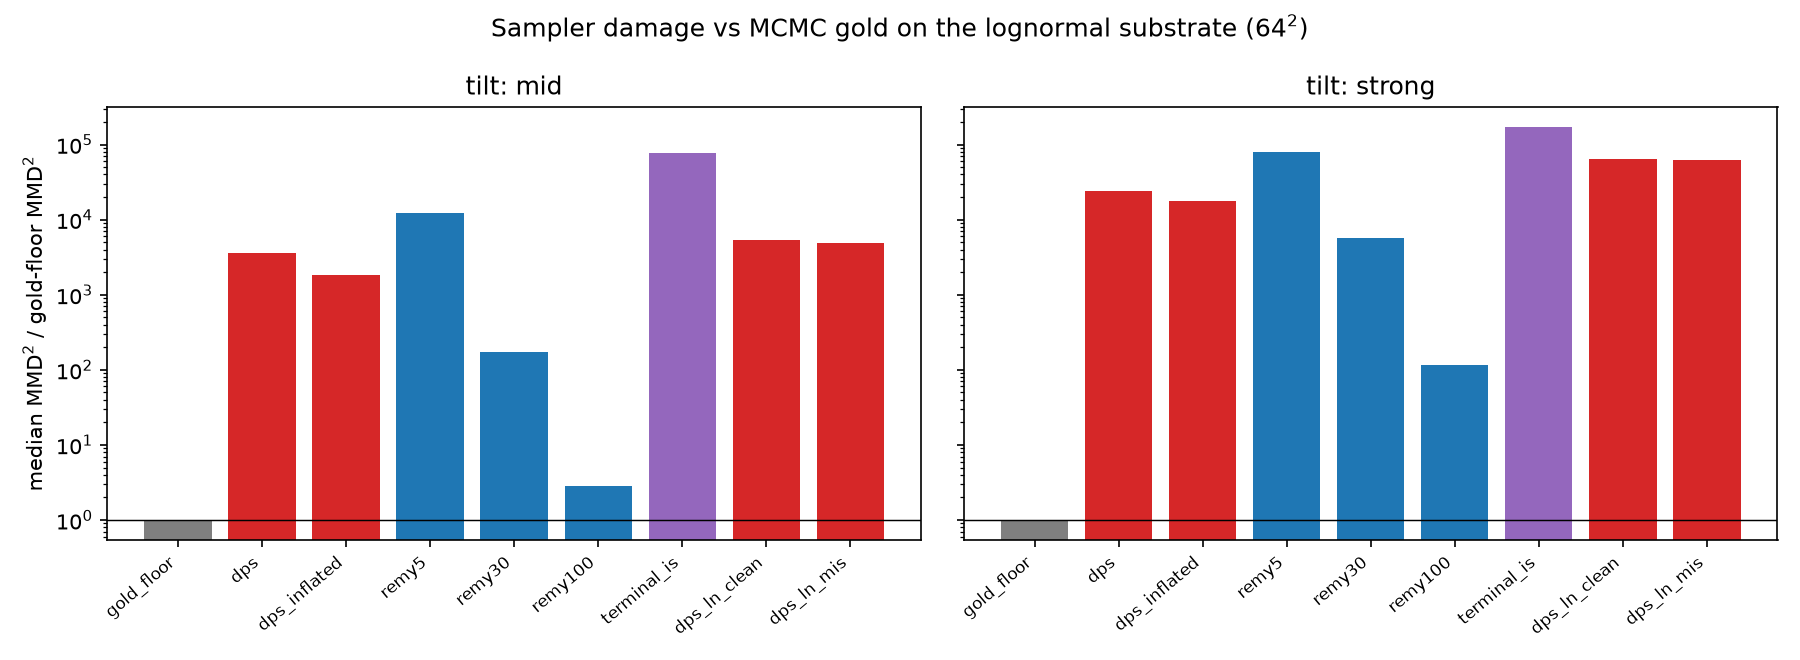
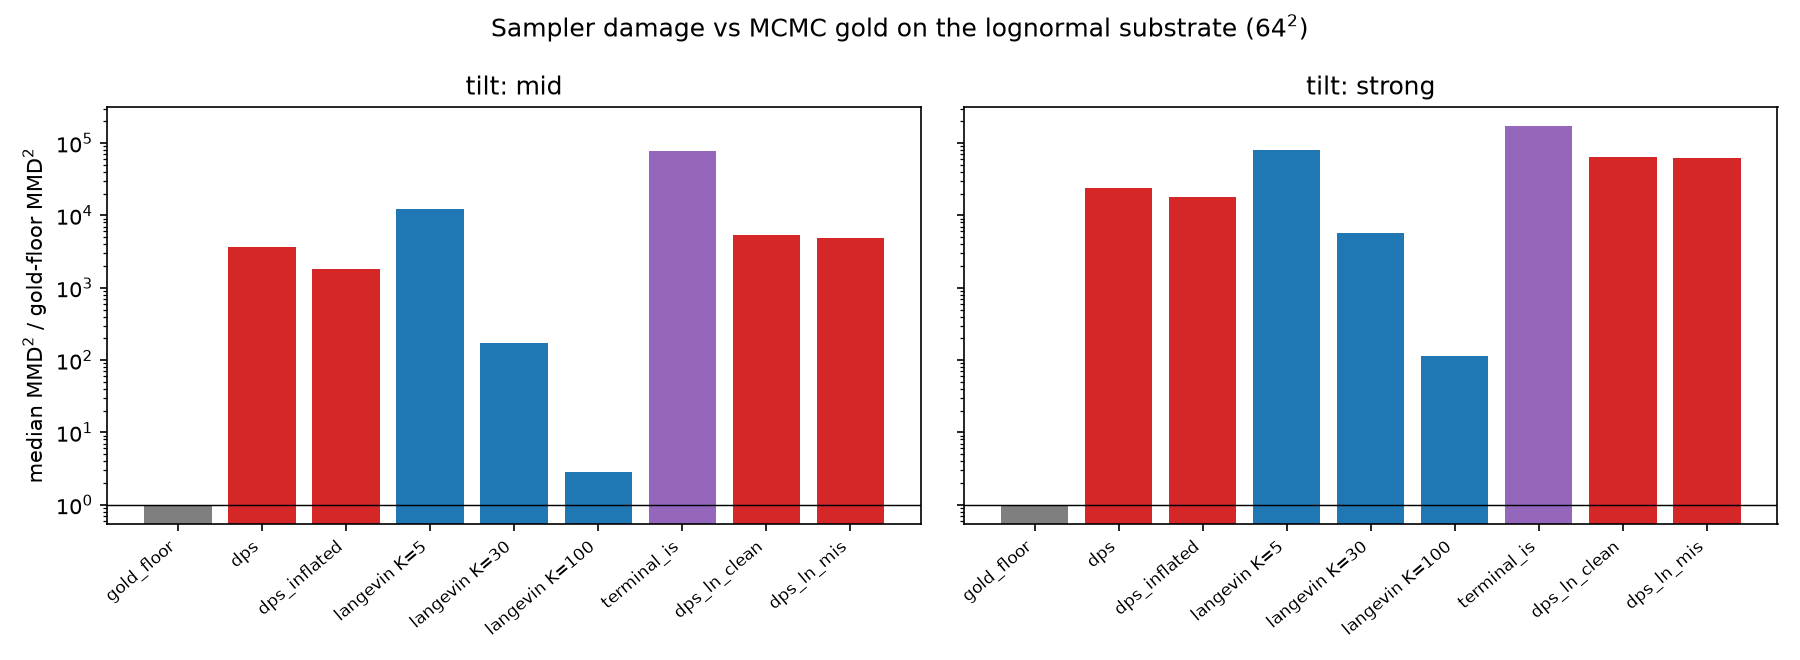
discretion + framing pass: ledger notes redacted with visible markers (originals in private records; no frozen prediction touched), blog part 6 genericized (method not person; arXiv citations kept), figure labels de-personalized

diff --git a/docs/explainer/certificate_explainer.html b/docs/explainer/certificate_explainer.html
@@ -605,12 +605,13 @@
 <div class="col">
   <p class="eyebrow">part 6 · the field&rsquo;s flagship</p>
   <h2>Where the community&rsquo;s actual mass-mapping method fits in all this</h2>
-  <p>Readers from weak lensing will be asking: what does any of this mean for the
-  method the field actually ships — the Remy et&nbsp;al. (2023) mass-mapping
-  sampler, which reconstructed dark-matter maps of real survey data with a
-  diffusion prior? It sits inside this story in three distinct ways.</p>
+  <p>Readers from weak lensing will be asking: what does any of this mean for
+  the approach the field actually ships — annealed-Langevin mass mapping
+  (arXiv:2201.05561), which has reconstructed dark-matter maps of real survey
+  data with a diffusion prior? It sits inside this story in three distinct
+  ways.</p>
   <p><b>First, it is one of the steered samplers under audit — the cautious
-  one.</b> Instead of one backward pass with nudges at full data strength, their
+  one.</b> Instead of one backward pass with nudges at full data strength, the
   scheme visits a ladder of noise levels and, at each level, deliberately
   <em>weakens</em> the data pull: it treats the measurement noise as if it were
   inflated by the current noise level (variance σ²<sub>data</sub> +
@@ -622,8 +623,8 @@
   cheap one-pass shortcut already costs roughly 7&ndash;30&times; the shortcut&rsquo;s
   compute, and near-exactness costs about 100&times;. Cautious, correct in the
   limit, expensive: now with exact numbers attached.</p>
-  <p><b>Second, their validation practice is exactly the gap the meter aimed
-  at.</b> How does that team currently argue their maps are right? The
+  <p><b>Second, the validation practice around it is exactly the gap the meter
+  aimed at.</b> How do its users currently argue the maps are right? The
   state-of-the-art way: run the sampler on <em>simulations</em> where the truth
   is known, check the recovered uncertainties offline, then trust the pipeline
   on real data. That is an offline, in-distribution argument — it cannot notice
@@ -635,7 +636,7 @@
   3&ndash;100&times; the ideal error. A per-observation runtime meter would have
   been the missing complement. That is why this instrument was worth a serious
   attempt.</p>
-  <p><b>Third, the verdict covers their scheme too.</b> The ledger idea has a
+  <p><b>Third, the verdict covers this scheme too.</b> The ledger idea has a
   natural version for level-ladder samplers (the weights accumulate across
   levels instead of steps — the classic &ldquo;annealed importance
   sampling&rdquo; construction). We built and tested that version as well: at
@@ -643,10 +644,10 @@
   a hundred thousand log-units. So nothing on this page says the field&rsquo;s
   maps are wrong; it says the field&rsquo;s <em>offline</em> validation remains
   the only game in town, our bench now supplies its error-budget price list, and
-  the runtime warning light everyone would want — for their sampler as much as
+  the runtime warning light everyone would want — for this sampler as much as
   for the shortcuts — still does not exist.</p>
   <p class="aside"><b>Update (July 2026):</b> as this page was being finished,
-  the same first author&rsquo;s successor method appeared
+  a successor to that line of work appeared
   (arXiv:2606.31988) — a different construction entirely, generating map and
   cosmological parameters jointly with a flow-matching model. Two things carry
   over unchanged. Its test bench is a warped-Gaussian field validated against
@@ -854,7 +855,7 @@
   four times the dimension. Cheap, checkable, boring. Against these gold
   standards we re-ran the sampler zoo, and the transfer report reads: DPS is
   still overconfident, now with structure — its error bars on the fine scales
-  cover the truth <em>zero percent</em> of the time; R&eacute;my-style annealed
+  cover the truth <em>zero percent</em> of the time; annealed-Langevin
   sampling still buys accuracy smoothly with compute, all the way down to the
   gold standard itself; and one Gaussian-bench result <b>failed to
   transfer</b>, informatively.</p>

diff --git a/scripts/dawn_figures3.py b/scripts/dawn_figures3.py
@@ -228,6 +228,8 @@ def fig_transfer():
                 xs.append(i)
                 ys.append(np.median(sel) / floor)
                 labels.append(s)
+        display = {"remy5": "langevin K=5", "remy30": "langevin K=30",
+                   "remy100": "langevin K=100"}
         ax.bar(range(len(ys)), ys,
                color=["#7f7f7f" if l == "gold_floor" else "#1f77b4"
                       if l.startswith("remy") else "#d62728"
@@ -235,7 +237,8 @@ def fig_transfer():
         ax.set_yscale("log")
         ax.axhline(1.0, color="k", lw=0.7)
         ax.set_xticks(range(len(labels)))
-        ax.set_xticklabels(labels, rotation=40, ha="right", fontsize=8)
+        ax.set_xticklabels([display.get(l, l) for l in labels],
+                           rotation=40, ha="right", fontsize=8)
         ax.set_title(f"tilt: {tiltname}")
     axes[0].set_ylabel("median MMD$^2$ / gold-floor MMD$^2$")
     fig.suptitle("Sampler damage vs MCMC gold on the lognormal substrate "
@@ -273,7 +276,7 @@ def fig_remyK():
     ax.set_yscale("log")
     ax.set_xlabel("Langevin steps per level K")
     ax.set_ylabel("MMD$^2$ to gold")
-    ax.set_title("Remy K-convergence on the nonlinear substrate")
+    ax.set_title("Annealed-Langevin K-convergence on the nonlinear substrate")
     ax.legend()
     fig.tight_layout()
     fig.savefig(FIG / "fig_remyK.png", dpi=150)

diff --git a/RESEARCH_LOG.md b/RESEARCH_LOG.md
@@ -554,22 +554,18 @@
   1e-12 clamp inflated ratios) — use raw mmd2_to_gold against transfer.jsonl
   floor stats at analysis; rows otherwise sound.
 
-- **NOTE 2026-07-05 · arXiv:2606.31988 (JADE — Remy, Chang, Willett) digested vs
-  exposure points.** No scoop. (a) SAFE: successor paper still has NO runtime
-  diagnostic (256 fixed ODE steps, no NFE ablation) — the gap claim gains fresh
-  evidence; caution: their sampler is a deterministic ODE, so the relevant missing
-  check is discretization/NFE, not MCMC-style mixing. (b) SAFE: they consume
-  TARP+MIRA uncritically. (c) cite as the 2026 validation-practice exhibit (NUTS
-  golds + TARP + MIRA + posterior predictive; all ground-truth-dependent). (d)
-  wording: annealed Langevin is no longer the line's current method (succeeded by
-  amortized flow matching) — our measurements remain correct for the 2023 scheme.
-  (e) their shifted-lognormal + NUTS-gold bench validates our Track B substrate as
-  field-standard. OPEN & DELICATE: their headline "MIRA 0.635±0.017 = good
-  calibration" sits on our filed bug's exact signature (exact posterior reads ~0.63
-  under norm=True vs analytic null 0.667) AND is ~2-3 SE below the null even taken
-  at face value. VERIFY (implementation, N, norm flag; check for released code)
-  before any contact/mention; if bug-affected, this is the live case study — and a
-  natural, substantive reason for Andreas to write to Benjamin Remy. Owner's call.
+- **NOTE 2026-07-05 · arXiv:2606.31988 digested vs exposure points.** No scoop.
+  (a) SAFE: the successor paper still has NO runtime diagnostic (256 fixed ODE
+  steps, no NFE ablation) — the gap claim gains fresh evidence; caution: its
+  sampler is a deterministic ODE, so the relevant missing check is
+  discretization/NFE, not MCMC-style mixing. (b) SAFE on the certificate-audit
+  niche. (c) cite as the 2026 validation-practice exhibit (NUTS golds + coverage
+  diagnostics + posterior predictive; all ground-truth-dependent). (d) wording:
+  annealed Langevin is no longer that line's current method (succeeded by
+  amortized flow matching) — our measurements remain correct for the 2023-era
+  scheme. (e) its shifted-lognormal + NUTS-gold bench validates our Track B
+  substrate as field-standard. [Remainder of this note redacted for discretion
+  2026-07-05 — private records; nothing here affects any frozen prediction.]
 
 - **IDEA 2026-07-05 (born, alive, NOT yet pursued — needs its own brainstorm before
   any commitment): the joint-inference arena.** Upgrade the bench with a
@@ -591,17 +587,10 @@
 - **Resolution criterion:** scripts/run_nfe2.py table (agreement rate + mmd2-to-gold
   per NFE in {8,16,32,64,128,256}).
 
-- **NOTE 2026-07-05 · JADE MIRA number verified as far as possible from outside:
-  AMBIGUOUS, leaning bug-consistent.** Joint 0.635±0.017 is 0.3 sigma from our
-  measured bug signature (0.630) and 1.9-3.1 sigma below the analytic null
-  1003/1503 = 0.6673 (N=500; they compare to asymptotic 2/3 only). Dimensional
-  fingerprint matches the bug mechanism exactly: joint (81,926 dims) deflated,
-  marginal (6 dims) clean at 0.659. Attribution blocked: code link github.com/b-remy/jade
-  is 404; paper silent on normalization (though the mixed-scale joint space REQUIRES
-  one); package's buggy path is opt-in; their stack is JAX vs the torch package.
-  If bug-affected, their model is BETTER calibrated than reported — the contact is
-  helpful in every branch. Note drafted for Andreas (docs/upstream/remy_note.md);
-  sending is his call.
+- **NOTE 2026-07-05 · [redacted for discretion 2026-07-05 — private records;
+  concerned an external paper's reported diagnostic value and related outreach
+  deliberations; superseded in part by the re-verification note below; nothing
+  here affects any frozen prediction.]**
 
 - **NOTE 2026-07-05 · Owner-demanded re-verification of the bug claims (he was
   right).** Confession first: both issues were filed with repro sketches that had
@@ -617,11 +606,10 @@
   ~60% OUR battery's truth-bootstrap-with-replacement (duplicated truths shrink the
   effective box: 0.6611 -> 0.6443, deficit x2.6) + bench-construction residue.
   Per-dim min-max is exactly scale-invariant, so the heteroscedasticity hypothesis
-  is dead (identical deficits to 4 decimals). Correction comment drafted
-  (docs/upstream/mira_issue_correction.md) — posting awaits owner authorization.
-  (3) JADE note: HELD/DEAD in current form — the fingerprint argument was
-  calibrated against our contaminated 0.630; settling their case needs their code
-  (404) or a q-law study at (T=500,S=500,q=82k). Arms-night raw-mira FP numbers
+  is dead (identical deficits to 4 decimals). Correction comment drafted —
+  posting awaits owner authorization.
+  (3) [clause redacted for discretion — concerned an external paper; private
+  records.] Arms-night raw-mira FP numbers
   carry this asterisk everywhere; CALIBRATED-variant conclusions (empirical nulls)
   self-correct and stand. tarp_cell also bootstraps truths — tarp bench numbers
   match the no-bootstrap iid repro anyway; no public correction needed there.